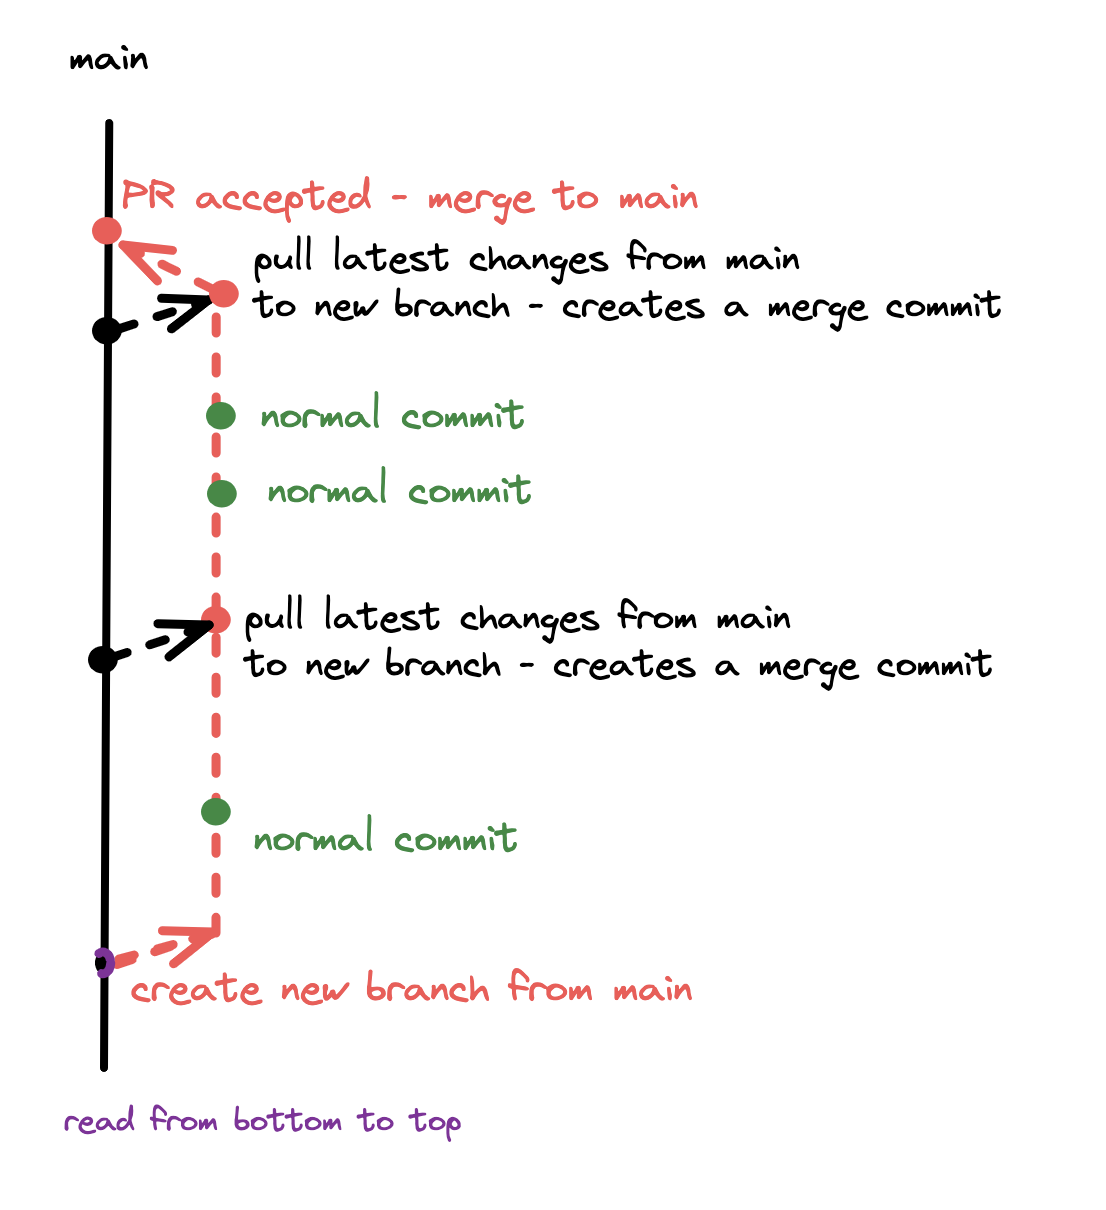
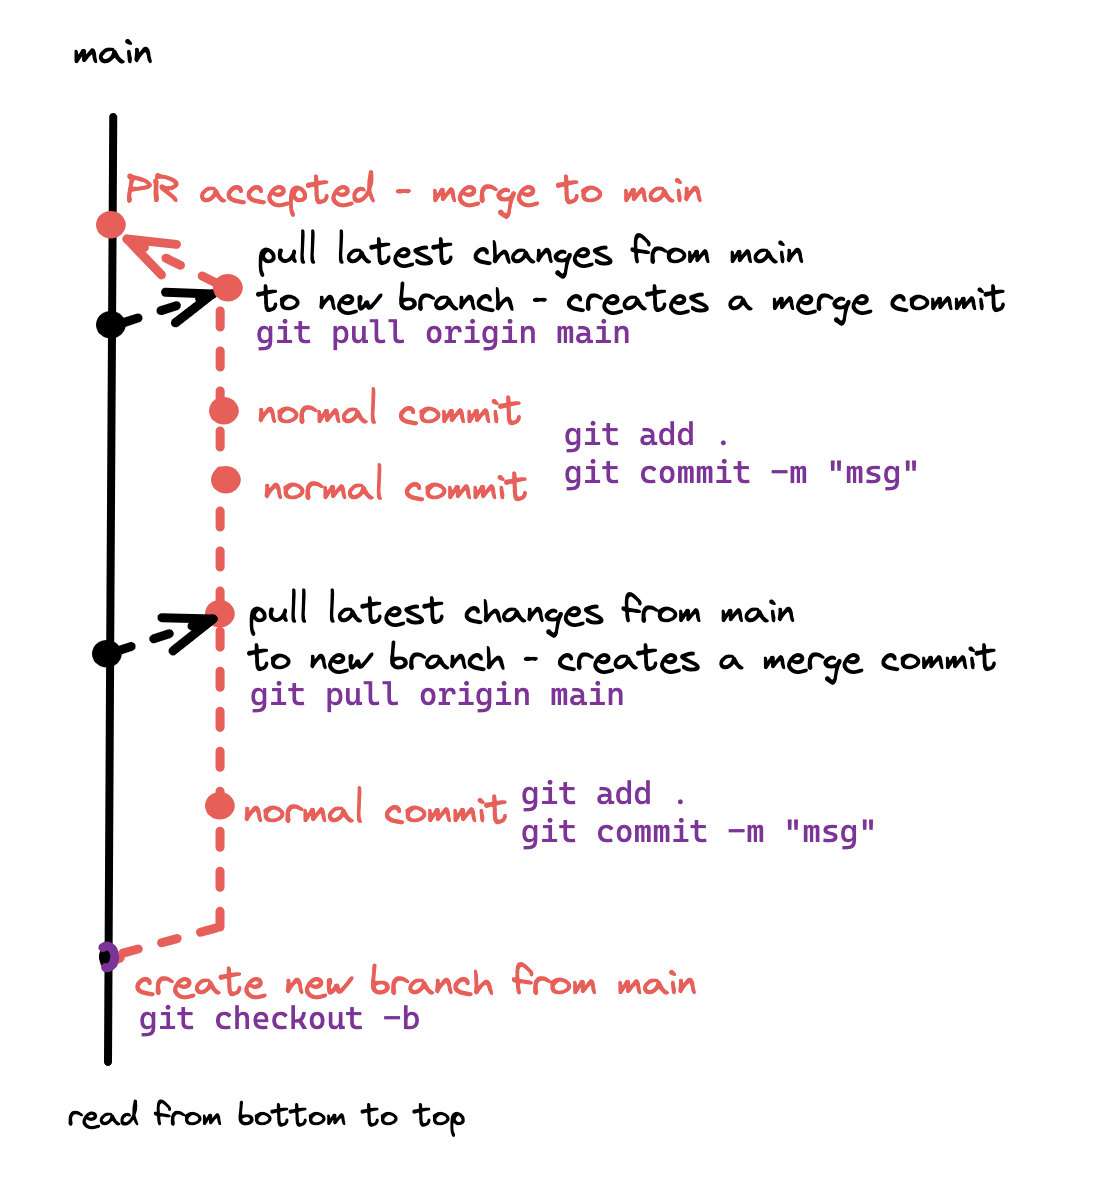
add vs code draft

diff --git a/vs-code.md b/vs-code.md
@@ -1,0 +1,46 @@
+# Vs Code
+
+## Guide on vs code processes:
+
+1. Start from main : 
+````git checkout main````
+
+- pull the latest changes of main if not up-to-date: ````git pull origin````
+
+This will actually do two things: ````git fetch origin```` & ````git merge````
+
+First it will fetch the changes that you'll be able to see in your changes and the latest will merge the changes to your branch. 
+git pull will directly merge changes that doesn't have any conflicts, if there is, it will show on your editor as conflicts file. 
+
+- create new branch and checkout out the branch (it creates/ branches off a new branch out of main) : ````git checkout -b MOIA-{number}_new_branch_name````
+
+2. Write your code
+
+3. To commit and push:
+
+    - *git add* will stage your changes :  ````git add .````
+
+you can then commit your changes : ````git commit -m "write commit message between the quotation marks"````
+
+then you can push to the remote *(origin)* : ````git push origin````
+
+In between you can check regularly if your branch is up-to-date with main so if there's conflicts with your code it doesn't get to much to resolve: ````git pull origin main````
+
+<img src="img/gitBranch.png" width="400" height="400">
+
+## Other commands: 
+
+
+- To checkout branches: ````git checkout {name of branch}````
+
+if you want to checkout the last checked out branch on the one you currently are: ````git branch checkout -````
+
+so if you were checked on `main` then go to `new-branch` and write ````git branch checkout -```` to your terminal, it will go to main and vice versa `new-branch` then go to `main` and write ````git branch checkout -```` it will go to new-branch 
+
+- It happened to me, many time, maybe you'd find that useful: I don't like the name of the branch I created and want to change it, then you can do that easily if you didn't push it remotely yet: 
+
+create new branch out of the old one - and then delete the old branch
+
+````git branch -m new-branch-name```` 
+
+````branch -D old-branch-name````
